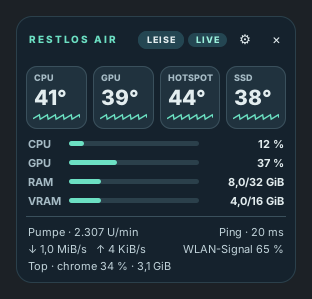
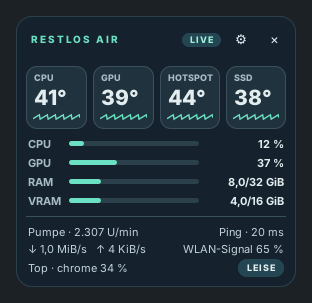
Widget: Profil-Knopf neben „Top“, kürzere Top-Zeile; Breitentest toleriert Systemschriften
Claude-Session: https://claude.ai/code/session_01MRrrZJBycRMnwB1GAuoTkb

diff --git a/app/air_studio.py b/app/air_studio.py
@@ -454,15 +454,16 @@ class AirWindow(Gtk.ApplicationWindow):
         mini=box(spacing=8);mini.set_name('mini-surface')
         for side in ('top','bottom','start','end'):getattr(mini,'set_margin_'+side)(0)
         self.stack.add_named(mini,'compact')
-        header=box(False,4)
-        header.set_margin_top(10);header.set_margin_start(12);header.set_margin_end(4)
+        header=box(False,6)
+        header.set_margin_top(10);header.set_margin_start(14);header.set_margin_end(6)
         drag=Gtk.EventBox();drag.add(label('RESTLOS AIR','eyebrow'))
         drag.connect('button-press-event',self.drag)
         drag.set_tooltip_text('Ziehen zum Verschieben · Strg+M wechselt die Ansicht')
         add(header,drag,True)
         self.mini_profile=Gtk.Button(label=profiles.title(self.profile).upper());self.mini_profile.get_style_context().add_class('profile-pill')
         self.mini_profile.set_valign(Gtk.Align.CENTER);self.mini_profile.set_tooltip_text('Lüfterprofil wechseln: Leise → Normal → Spiel')
-        self.mini_profile.connect('clicked',lambda *_:self.cycle_profile());add(header,self.mini_profile)
+        self.mini_profile.connect('clicked',lambda *_:self.cycle_profile())
+        self.mini_profile.set_halign(Gtk.Align.END)
         self.mini_live=add(header,label('LIVE','pill'));self.mini_live.set_valign(Gtk.Align.CENTER)
         self.mini_live.get_style_context().add_class('state-ok')
         self.mini_update=Gtk.Button(label='UPDATE');self.mini_update.get_style_context().add_class('update-pill')
@@ -518,7 +519,7 @@ class AirWindow(Gtk.ApplicationWindow):
         info.attach(self.mini_transfer,0,1,1,1);info.attach(self.mini_signal,1,1,1,1)
         self.mini_top=label('Top · —','info');self.mini_top.set_ellipsize(Pango.EllipsizeMode.END)
         self.mini_top.set_tooltip_text('Programm mit der höchsten CPU-Last · Details im Studio')
-        info.attach(self.mini_top,0,2,2,1)
+        info.attach(self.mini_top,0,2,1,1);info.attach(self.mini_profile,1,2,1,1)
         add(mini,self.open_studio)
 
     def build_update_panel(self,content):
@@ -846,7 +847,7 @@ class AirWindow(Gtk.ApplicationWindow):
             try:self.extras=read_extras()
             except OSError:self.extras={}
             if not self.compact:self.board_panel.refresh(self.extras,self.metrics_state)
-        self.mini_top.set_text(self.top_text())
+        self.mini_top.set_text(self.top_text(short=True));self.mini_top.set_tooltip_text(self.top_text()+' · Details im Studio')
         if self.compact:
             for spark_owner in self.mini_temps.values():spark_owner.get_parent().queue_draw()
         self.push_bar()
@@ -885,9 +886,10 @@ class AirWindow(Gtk.ApplicationWindow):
         if not hidden and not self.compact and now-self.history_last>=30:
             self.history_last=now;self.history_panel.refresh(self.history_store)
 
-    def top_text(self):
+    def top_text(self,short=False):
         if not self.top:return 'Top · —'
         item=self.top[0]
+        if short:return f'Top · {item.name} {item.cpu_percent:.0f} %'
         return f'Top · {item.name} {item.cpu_percent:.0f} % · {panels.memory_text(item.memory_bytes)}'
 
     def audio_state(self):

diff --git a/tests/gui_smoke.py b/tests/gui_smoke.py
@@ -254,7 +254,7 @@ class GuiSmokeTests(unittest.TestCase):
         self.assertEqual(set(self.window.mini_temps), {'cpu', 'gpu', 'hotspot', 'ssd'})
         self.assertEqual(self.window.mini_temps['ssd'].get_text(), '38°')
         _, natural = self.window.stack.get_child_by_name('compact').get_preferred_width()
-        self.assertLessEqual(natural, self.air.COMPACT_WIDTH - 20)  # window border 10 px each side
+        self.assertLessEqual(natural, self.air.COMPACT_WIDTH)  # system fonts vary by a few pixels
         self.assertEqual(self.window.mini_live.get_text(), 'LIVE')
 
     def test_overheating_alerts_while_hidden_with_hysteresis(self):
